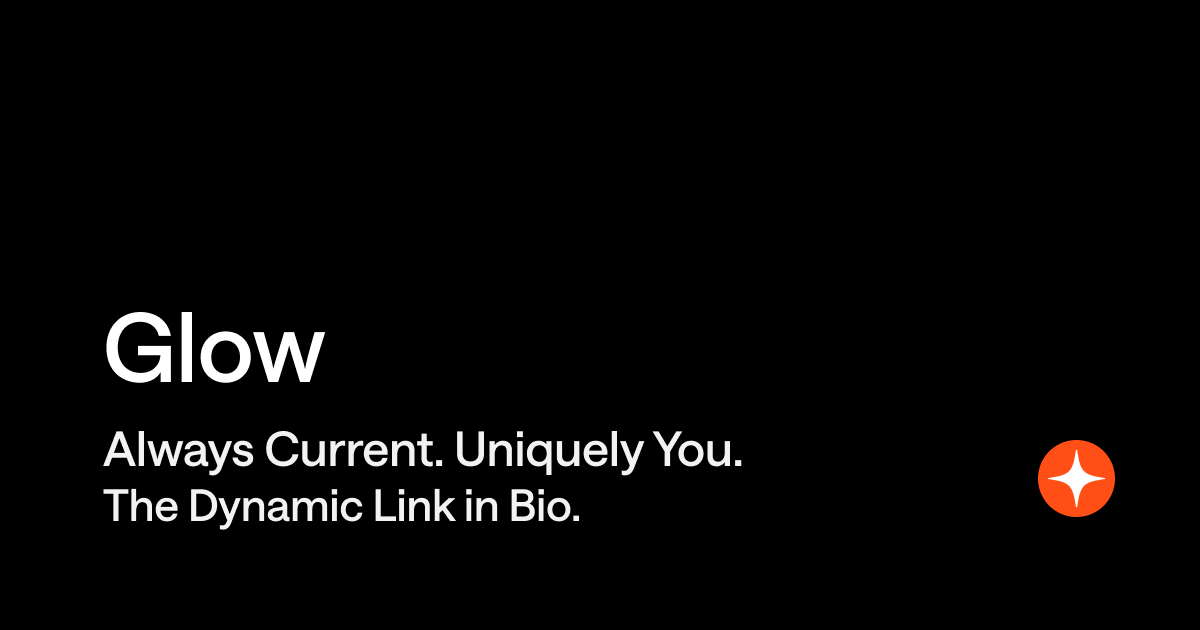
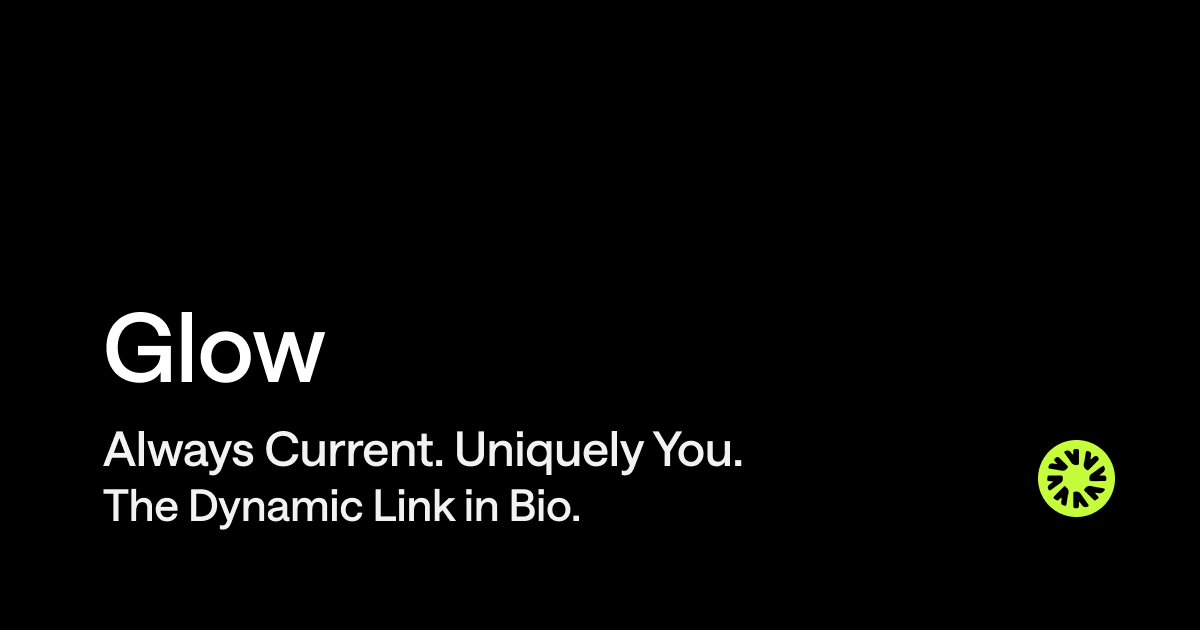
New branding

Changed region(s): [[0.8633, 0.6937, 0.9558, 0.8143]]

diff --git a/app/components/MarketingNavigation/index.tsx b/app/components/MarketingNavigation/index.tsx
@@ -23,10 +23,10 @@ export default function MarketingNavigation({ children }: Props) {
           <nav className="flex items-center justify-between gap-x-6">
             <div className="flex lg:flex-1">
               <Link href="/" className="-m-1.5 p-1.5 flex items-center gap-2">
-                <svg viewBox="0 0 312 312" width={20} fill="none">
+                <svg viewBox="0 0 321 321" width={20} height={20} fill="none">
                   <path
-                    fill="currentColor"
-                    d="M311.366 155.683c0 1.25-1.156 2.292-2.72 2.552-117.952 17.657-131.956 31.72-149.564 150.839-.204 1.302-1.632 2.292-3.399 2.292-1.768 0-3.195-.99-3.399-2.292C134.676 189.955 120.671 175.84 2.71935 158.235 1.08774 157.975 0 156.933 0 155.683s1.15572-2.292 2.71935-2.552C120.671 135.474 134.676 121.411 152.284 2.29176 152.488.989625 153.915 0 155.683 0c1.767 0 3.195.989625 3.399 2.29176C176.69 121.411 190.694 135.526 308.646 153.131c1.564.26 2.72 1.302 2.72 2.552Z"
+                    fill="#000"
+                    d="M274.378 238.093c-5.317-1.294-9.643-2.294-15.133-.863 4.97 10.285 16.184 15.791 19.854 27.397-6.04 4.376-11.93 9.021-18.212 13.056-3.82 2.453-7.051-.443-9.629-2.957-16.22-15.814-32.313-31.76-48.464-47.645-4.872-4.793-3.234-8.289.77-13.301 9.452-11.834 19.807-16.768 35.501-12.938 20.746 5.063 42.184 7.223 63.11 11.646 12.161 2.57 12.144 5.498 4.462 15.158-8.402 10.564-18.83 13.018-32.259 10.447ZM256.64 122.137c16.457-11.519 31.325-23.9429 48.749-32.2715 18.235 28.4345-6.623 37.8945-24.382 53.5475 11.681 0 19.657-.317 27.597.09 7.856.403 12.585 8.04 11.212 16.275-1.202 7.205 1.862 13.824-11.702 13.54-23.025-.482-46.038 1.936-69.101.256-6.983-.508-9.661-3.031-10.418-10.17-1.456-13.748 1.684-24.56 14.544-31.554 4.581-2.492 8.564-6.082 13.501-9.713ZM166.97 319.516c-4.997.645-9.028.836-13.056 1.058-8.656.476-12.677-3.687-12.659-12.275.048-22.641.079-45.284-.083-67.925-.053-7.372 3.462-9.148 10.419-9.853 14.259-1.446 24.321 2.64 32.304 15.329 10.956 17.413 23.976 33.513 35.644 50.497 8.06 11.733 5.621 15.677-8.817 17.241-9.764 1.058-17.229-1.333-22.714-10.079-4.035-6.435-9.22-12.148-14.488-18.952-4.697 11.776 2.206 24.401-6.55 34.959ZM261.404 75.9306c-12.074 12.0203-23.605 23.363-34.994 34.8474-5.405 5.451-8.993 5.972-15.884.148-12.089-10.217-15.184-20.9447-11.443-36.0537 4.16-16.8019 5.799-34.2144 8.984-51.2776 1.123-6.0142 1.372-14.55294 10.861-12.765 8.767 1.6517 17.614 4.7972 18.139 16.2726.44 9.6238-3.744 18.9258-2.054 30.2879 6.363-5.6708 11.961-10.6758 17.578-15.6603 4.803-4.263 18.153-5.6158 21.876 2.0378 2.786 5.7285 4.506 4.0077 3.786 10.9767-.76 7.3672-8.053 11.7168-12.846 17.108-1.073 1.2073-2.265 2.3089-4.003 4.0782ZM67.9827 225.02c9.0189-8.653 17.4275-16.701 26.1004-25.003 14.8409 11.361 26.0949 21.912 19.9789 42.728-4.857 16.53-5.55 34.244-8.954 51.26-1.082 5.413-.239 15.128-10.4942 12.598-8.7499-2.158-18.8278-4.141-18.8279-16.881-.0001-8.716 4.3381-17.241 1.1824-26.827-9.6432 3.644-14.2525 17.084-24.9745 14.97-6.6682-1.316-12.1598-8.596-19.1925-13.974 9.8794-15.239 23.1016-25.999 35.1814-38.871ZM9.82011 222.99c-17.3096-24.272 6.51729-33.41 24.18899-46.337-8.0677-1.297-16.137-2.973-20.6931-2.943-9.50487.061-14.70859-1.321-12.991193-13.621C2.4411 144.932 2.23828 143.294 17.8476 143.054c17.7949-.274 35.6058.287 53.3939-.156 10.0974-.251 12.6486 3.984 13.3158 13.695.9123 13.279-3.2979 21.953-14.4876 29.145-15.969 10.264-30.9521 22.053-46.5388 32.928-3.8039 2.654-7.5104 6.522-13.71079 4.324ZM140.611 29.1981c.355-5.9558.837-11.2154.564-16.4356-.483-9.22454 3.156-12.864232 12.756-12.7603027C170.95.186258 171.518.0563117 171.684 17.4964c.186 19.3659-.102 38.7365.119 58.1016.083 7.257-1.717 9.8587-10.097 10.7627-16.223 1.7497-26.351-4.2449-34.718-17.5995-9.621-15.3567-21.158-29.5-31.2331-44.5905-6.1814-9.2582-4.0884-11.3508 6.5581-14.63792 12.713-3.92508 20.564.75942 27.494 10.71012 2.66 3.8201 4.034 9.8248 10.804 8.9552ZM66.5748 48.1218c14.1484 13.9315 27.5747 27.4046 41.1922 40.6815 5.513 5.3747 5.941 8.5622.303 15.6887-10.8346 13.693-22.789 14.785-38.2272 11.101-16.0584-3.833-32.7064-5.13-48.9356-8.348-5.5757-1.105-14.44328.213-14.31874-9.3687.12839-9.871 10.74244-20.4889 19.36684-19.8094 8.7969.6931 17.5302 2.1935 27.269 3.4683-2.223-9.7435-14.4668-13.2569-15.7476-24.5844 5.4968-5.2732 11.9725-22.0953 29.0981-8.829Z"
                   />
                 </svg>
 
@@ -64,10 +64,10 @@ export default function MarketingNavigation({ children }: Props) {
                 href="/"
                 className="-m-1.5 p-1.5 flex items-center gap-2 flex-1"
               >
-                <svg viewBox="0 0 312 312" width={20} fill="none">
+                <svg viewBox="0 0 321 321" width={20} height={20} fill="none">
                   <path
-                    fill="currentColor"
-                    d="M311.366 155.683c0 1.25-1.156 2.292-2.72 2.552-117.952 17.657-131.956 31.72-149.564 150.839-.204 1.302-1.632 2.292-3.399 2.292-1.768 0-3.195-.99-3.399-2.292C134.676 189.955 120.671 175.84 2.71935 158.235 1.08774 157.975 0 156.933 0 155.683s1.15572-2.292 2.71935-2.552C120.671 135.474 134.676 121.411 152.284 2.29176 152.488.989625 153.915 0 155.683 0c1.767 0 3.195.989625 3.399 2.29176C176.69 121.411 190.694 135.526 308.646 153.131c1.564.26 2.72 1.302 2.72 2.552Z"
+                    fill="#000"
+                    d="M274.378 238.093c-5.317-1.294-9.643-2.294-15.133-.863 4.97 10.285 16.184 15.791 19.854 27.397-6.04 4.376-11.93 9.021-18.212 13.056-3.82 2.453-7.051-.443-9.629-2.957-16.22-15.814-32.313-31.76-48.464-47.645-4.872-4.793-3.234-8.289.77-13.301 9.452-11.834 19.807-16.768 35.501-12.938 20.746 5.063 42.184 7.223 63.11 11.646 12.161 2.57 12.144 5.498 4.462 15.158-8.402 10.564-18.83 13.018-32.259 10.447ZM256.64 122.137c16.457-11.519 31.325-23.9429 48.749-32.2715 18.235 28.4345-6.623 37.8945-24.382 53.5475 11.681 0 19.657-.317 27.597.09 7.856.403 12.585 8.04 11.212 16.275-1.202 7.205 1.862 13.824-11.702 13.54-23.025-.482-46.038 1.936-69.101.256-6.983-.508-9.661-3.031-10.418-10.17-1.456-13.748 1.684-24.56 14.544-31.554 4.581-2.492 8.564-6.082 13.501-9.713ZM166.97 319.516c-4.997.645-9.028.836-13.056 1.058-8.656.476-12.677-3.687-12.659-12.275.048-22.641.079-45.284-.083-67.925-.053-7.372 3.462-9.148 10.419-9.853 14.259-1.446 24.321 2.64 32.304 15.329 10.956 17.413 23.976 33.513 35.644 50.497 8.06 11.733 5.621 15.677-8.817 17.241-9.764 1.058-17.229-1.333-22.714-10.079-4.035-6.435-9.22-12.148-14.488-18.952-4.697 11.776 2.206 24.401-6.55 34.959ZM261.404 75.9306c-12.074 12.0203-23.605 23.363-34.994 34.8474-5.405 5.451-8.993 5.972-15.884.148-12.089-10.217-15.184-20.9447-11.443-36.0537 4.16-16.8019 5.799-34.2144 8.984-51.2776 1.123-6.0142 1.372-14.55294 10.861-12.765 8.767 1.6517 17.614 4.7972 18.139 16.2726.44 9.6238-3.744 18.9258-2.054 30.2879 6.363-5.6708 11.961-10.6758 17.578-15.6603 4.803-4.263 18.153-5.6158 21.876 2.0378 2.786 5.7285 4.506 4.0077 3.786 10.9767-.76 7.3672-8.053 11.7168-12.846 17.108-1.073 1.2073-2.265 2.3089-4.003 4.0782ZM67.9827 225.02c9.0189-8.653 17.4275-16.701 26.1004-25.003 14.8409 11.361 26.0949 21.912 19.9789 42.728-4.857 16.53-5.55 34.244-8.954 51.26-1.082 5.413-.239 15.128-10.4942 12.598-8.7499-2.158-18.8278-4.141-18.8279-16.881-.0001-8.716 4.3381-17.241 1.1824-26.827-9.6432 3.644-14.2525 17.084-24.9745 14.97-6.6682-1.316-12.1598-8.596-19.1925-13.974 9.8794-15.239 23.1016-25.999 35.1814-38.871ZM9.82011 222.99c-17.3096-24.272 6.51729-33.41 24.18899-46.337-8.0677-1.297-16.137-2.973-20.6931-2.943-9.50487.061-14.70859-1.321-12.991193-13.621C2.4411 144.932 2.23828 143.294 17.8476 143.054c17.7949-.274 35.6058.287 53.3939-.156 10.0974-.251 12.6486 3.984 13.3158 13.695.9123 13.279-3.2979 21.953-14.4876 29.145-15.969 10.264-30.9521 22.053-46.5388 32.928-3.8039 2.654-7.5104 6.522-13.71079 4.324ZM140.611 29.1981c.355-5.9558.837-11.2154.564-16.4356-.483-9.22454 3.156-12.864232 12.756-12.7603027C170.95.186258 171.518.0563117 171.684 17.4964c.186 19.3659-.102 38.7365.119 58.1016.083 7.257-1.717 9.8587-10.097 10.7627-16.223 1.7497-26.351-4.2449-34.718-17.5995-9.621-15.3567-21.158-29.5-31.2331-44.5905-6.1814-9.2582-4.0884-11.3508 6.5581-14.63792 12.713-3.92508 20.564.75942 27.494 10.71012 2.66 3.8201 4.034 9.8248 10.804 8.9552ZM66.5748 48.1218c14.1484 13.9315 27.5747 27.4046 41.1922 40.6815 5.513 5.3747 5.941 8.5622.303 15.6887-10.8346 13.693-22.789 14.785-38.2272 11.101-16.0584-3.833-32.7064-5.13-48.9356-8.348-5.5757-1.105-14.44328.213-14.31874-9.3687.12839-9.871 10.74244-20.4889 19.36684-19.8094 8.7969.6931 17.5302 2.1935 27.269 3.4683-2.223-9.7435-14.4668-13.2569-15.7476-24.5844 5.4968-5.2732 11.9725-22.0953 29.0981-8.829Z"
                   />
                 </svg>
                 <span className="font-medium">Glow</span>

diff --git a/app/components/GlobalNavigation/index.tsx b/app/components/GlobalNavigation/index.tsx
@@ -42,14 +42,15 @@ export function GlobalNavigation({
           <div className="grid grid-cols-2 md:grid-cols-3 h-16 items-center px-4">
             <div className="flex items-center">
               <svg
-                viewBox="0 0 312 312"
+                viewBox="0 0 321 321"
                 width={20}
+                height={20}
                 fill="none"
                 className="mr-3"
               >
                 <path
                   fill="#999"
-                  d="M311.366 155.683c0 1.25-1.156 2.292-2.72 2.552-117.952 17.657-131.956 31.72-149.564 150.839-.204 1.302-1.632 2.292-3.399 2.292-1.768 0-3.195-.99-3.399-2.292C134.676 189.955 120.671 175.84 2.71935 158.235 1.08774 157.975 0 156.933 0 155.683s1.15572-2.292 2.71935-2.552C120.671 135.474 134.676 121.411 152.284 2.29176 152.488.989625 153.915 0 155.683 0c1.767 0 3.195.989625 3.399 2.29176C176.69 121.411 190.694 135.526 308.646 153.131c1.564.26 2.72 1.302 2.72 2.552Z"
+                  d="M274.378 238.093c-5.317-1.294-9.643-2.294-15.133-.863 4.97 10.285 16.184 15.791 19.854 27.397-6.04 4.376-11.93 9.021-18.212 13.056-3.82 2.453-7.051-.443-9.629-2.957-16.22-15.814-32.313-31.76-48.464-47.645-4.872-4.793-3.234-8.289.77-13.301 9.452-11.834 19.807-16.768 35.501-12.938 20.746 5.063 42.184 7.223 63.11 11.646 12.161 2.57 12.144 5.498 4.462 15.158-8.402 10.564-18.83 13.018-32.259 10.447ZM256.64 122.137c16.457-11.519 31.325-23.9429 48.749-32.2715 18.235 28.4345-6.623 37.8945-24.382 53.5475 11.681 0 19.657-.317 27.597.09 7.856.403 12.585 8.04 11.212 16.275-1.202 7.205 1.862 13.824-11.702 13.54-23.025-.482-46.038 1.936-69.101.256-6.983-.508-9.661-3.031-10.418-10.17-1.456-13.748 1.684-24.56 14.544-31.554 4.581-2.492 8.564-6.082 13.501-9.713ZM166.97 319.516c-4.997.645-9.028.836-13.056 1.058-8.656.476-12.677-3.687-12.659-12.275.048-22.641.079-45.284-.083-67.925-.053-7.372 3.462-9.148 10.419-9.853 14.259-1.446 24.321 2.64 32.304 15.329 10.956 17.413 23.976 33.513 35.644 50.497 8.06 11.733 5.621 15.677-8.817 17.241-9.764 1.058-17.229-1.333-22.714-10.079-4.035-6.435-9.22-12.148-14.488-18.952-4.697 11.776 2.206 24.401-6.55 34.959ZM261.404 75.9306c-12.074 12.0203-23.605 23.363-34.994 34.8474-5.405 5.451-8.993 5.972-15.884.148-12.089-10.217-15.184-20.9447-11.443-36.0537 4.16-16.8019 5.799-34.2144 8.984-51.2776 1.123-6.0142 1.372-14.55294 10.861-12.765 8.767 1.6517 17.614 4.7972 18.139 16.2726.44 9.6238-3.744 18.9258-2.054 30.2879 6.363-5.6708 11.961-10.6758 17.578-15.6603 4.803-4.263 18.153-5.6158 21.876 2.0378 2.786 5.7285 4.506 4.0077 3.786 10.9767-.76 7.3672-8.053 11.7168-12.846 17.108-1.073 1.2073-2.265 2.3089-4.003 4.0782ZM67.9827 225.02c9.0189-8.653 17.4275-16.701 26.1004-25.003 14.8409 11.361 26.0949 21.912 19.9789 42.728-4.857 16.53-5.55 34.244-8.954 51.26-1.082 5.413-.239 15.128-10.4942 12.598-8.7499-2.158-18.8278-4.141-18.8279-16.881-.0001-8.716 4.3381-17.241 1.1824-26.827-9.6432 3.644-14.2525 17.084-24.9745 14.97-6.6682-1.316-12.1598-8.596-19.1925-13.974 9.8794-15.239 23.1016-25.999 35.1814-38.871ZM9.82011 222.99c-17.3096-24.272 6.51729-33.41 24.18899-46.337-8.0677-1.297-16.137-2.973-20.6931-2.943-9.50487.061-14.70859-1.321-12.991193-13.621C2.4411 144.932 2.23828 143.294 17.8476 143.054c17.7949-.274 35.6058.287 53.3939-.156 10.0974-.251 12.6486 3.984 13.3158 13.695.9123 13.279-3.2979 21.953-14.4876 29.145-15.969 10.264-30.9521 22.053-46.5388 32.928-3.8039 2.654-7.5104 6.522-13.71079 4.324ZM140.611 29.1981c.355-5.9558.837-11.2154.564-16.4356-.483-9.22454 3.156-12.864232 12.756-12.7603027C170.95.186258 171.518.0563117 171.684 17.4964c.186 19.3659-.102 38.7365.119 58.1016.083 7.257-1.717 9.8587-10.097 10.7627-16.223 1.7497-26.351-4.2449-34.718-17.5995-9.621-15.3567-21.158-29.5-31.2331-44.5905-6.1814-9.2582-4.0884-11.3508 6.5581-14.63792 12.713-3.92508 20.564.75942 27.494 10.71012 2.66 3.8201 4.034 9.8248 10.804 8.9552ZM66.5748 48.1218c14.1484 13.9315 27.5747 27.4046 41.1922 40.6815 5.513 5.3747 5.941 8.5622.303 15.6887-10.8346 13.693-22.789 14.785-38.2272 11.101-16.0584-3.833-32.7064-5.13-48.9356-8.348-5.5757-1.105-14.44328.213-14.31874-9.3687.12839-9.871 10.74244-20.4889 19.36684-19.8094 8.7969.6931 17.5302 2.1935 27.269 3.4683-2.223-9.7435-14.4668-13.2569-15.7476-24.5844 5.4968-5.2732 11.9725-22.0953 29.0981-8.829Z"
                 />
               </svg>
 
